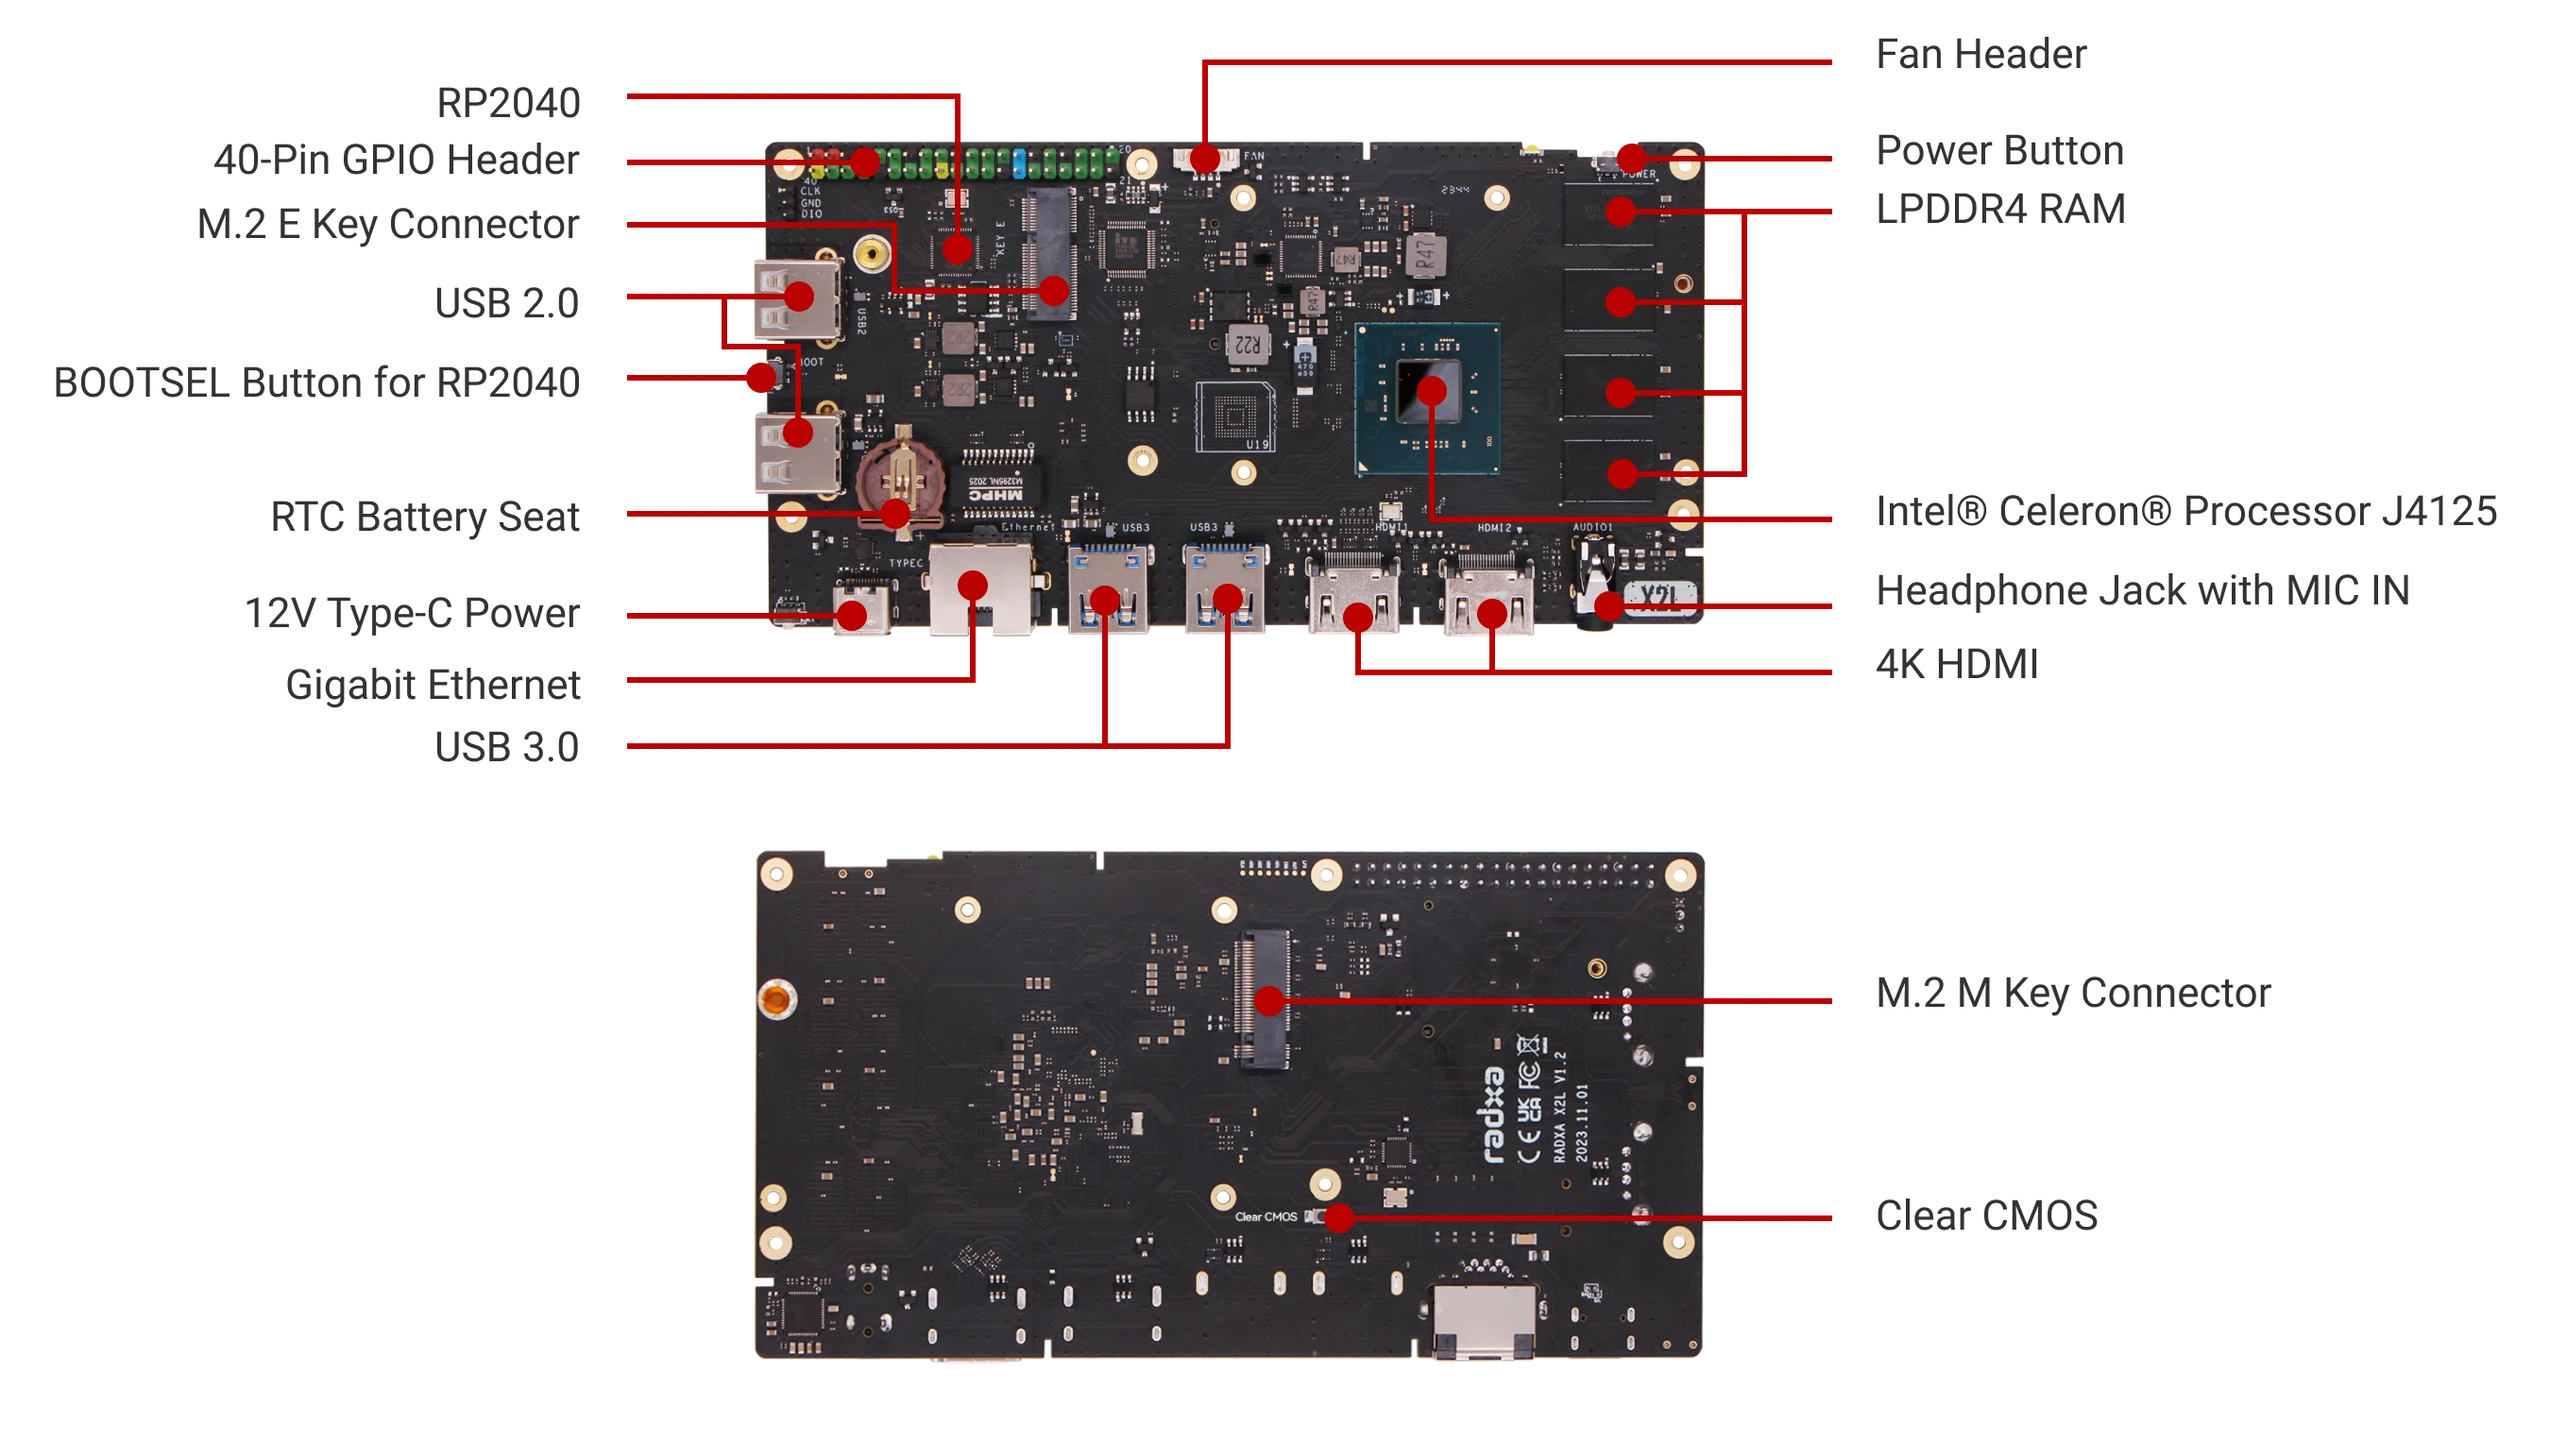
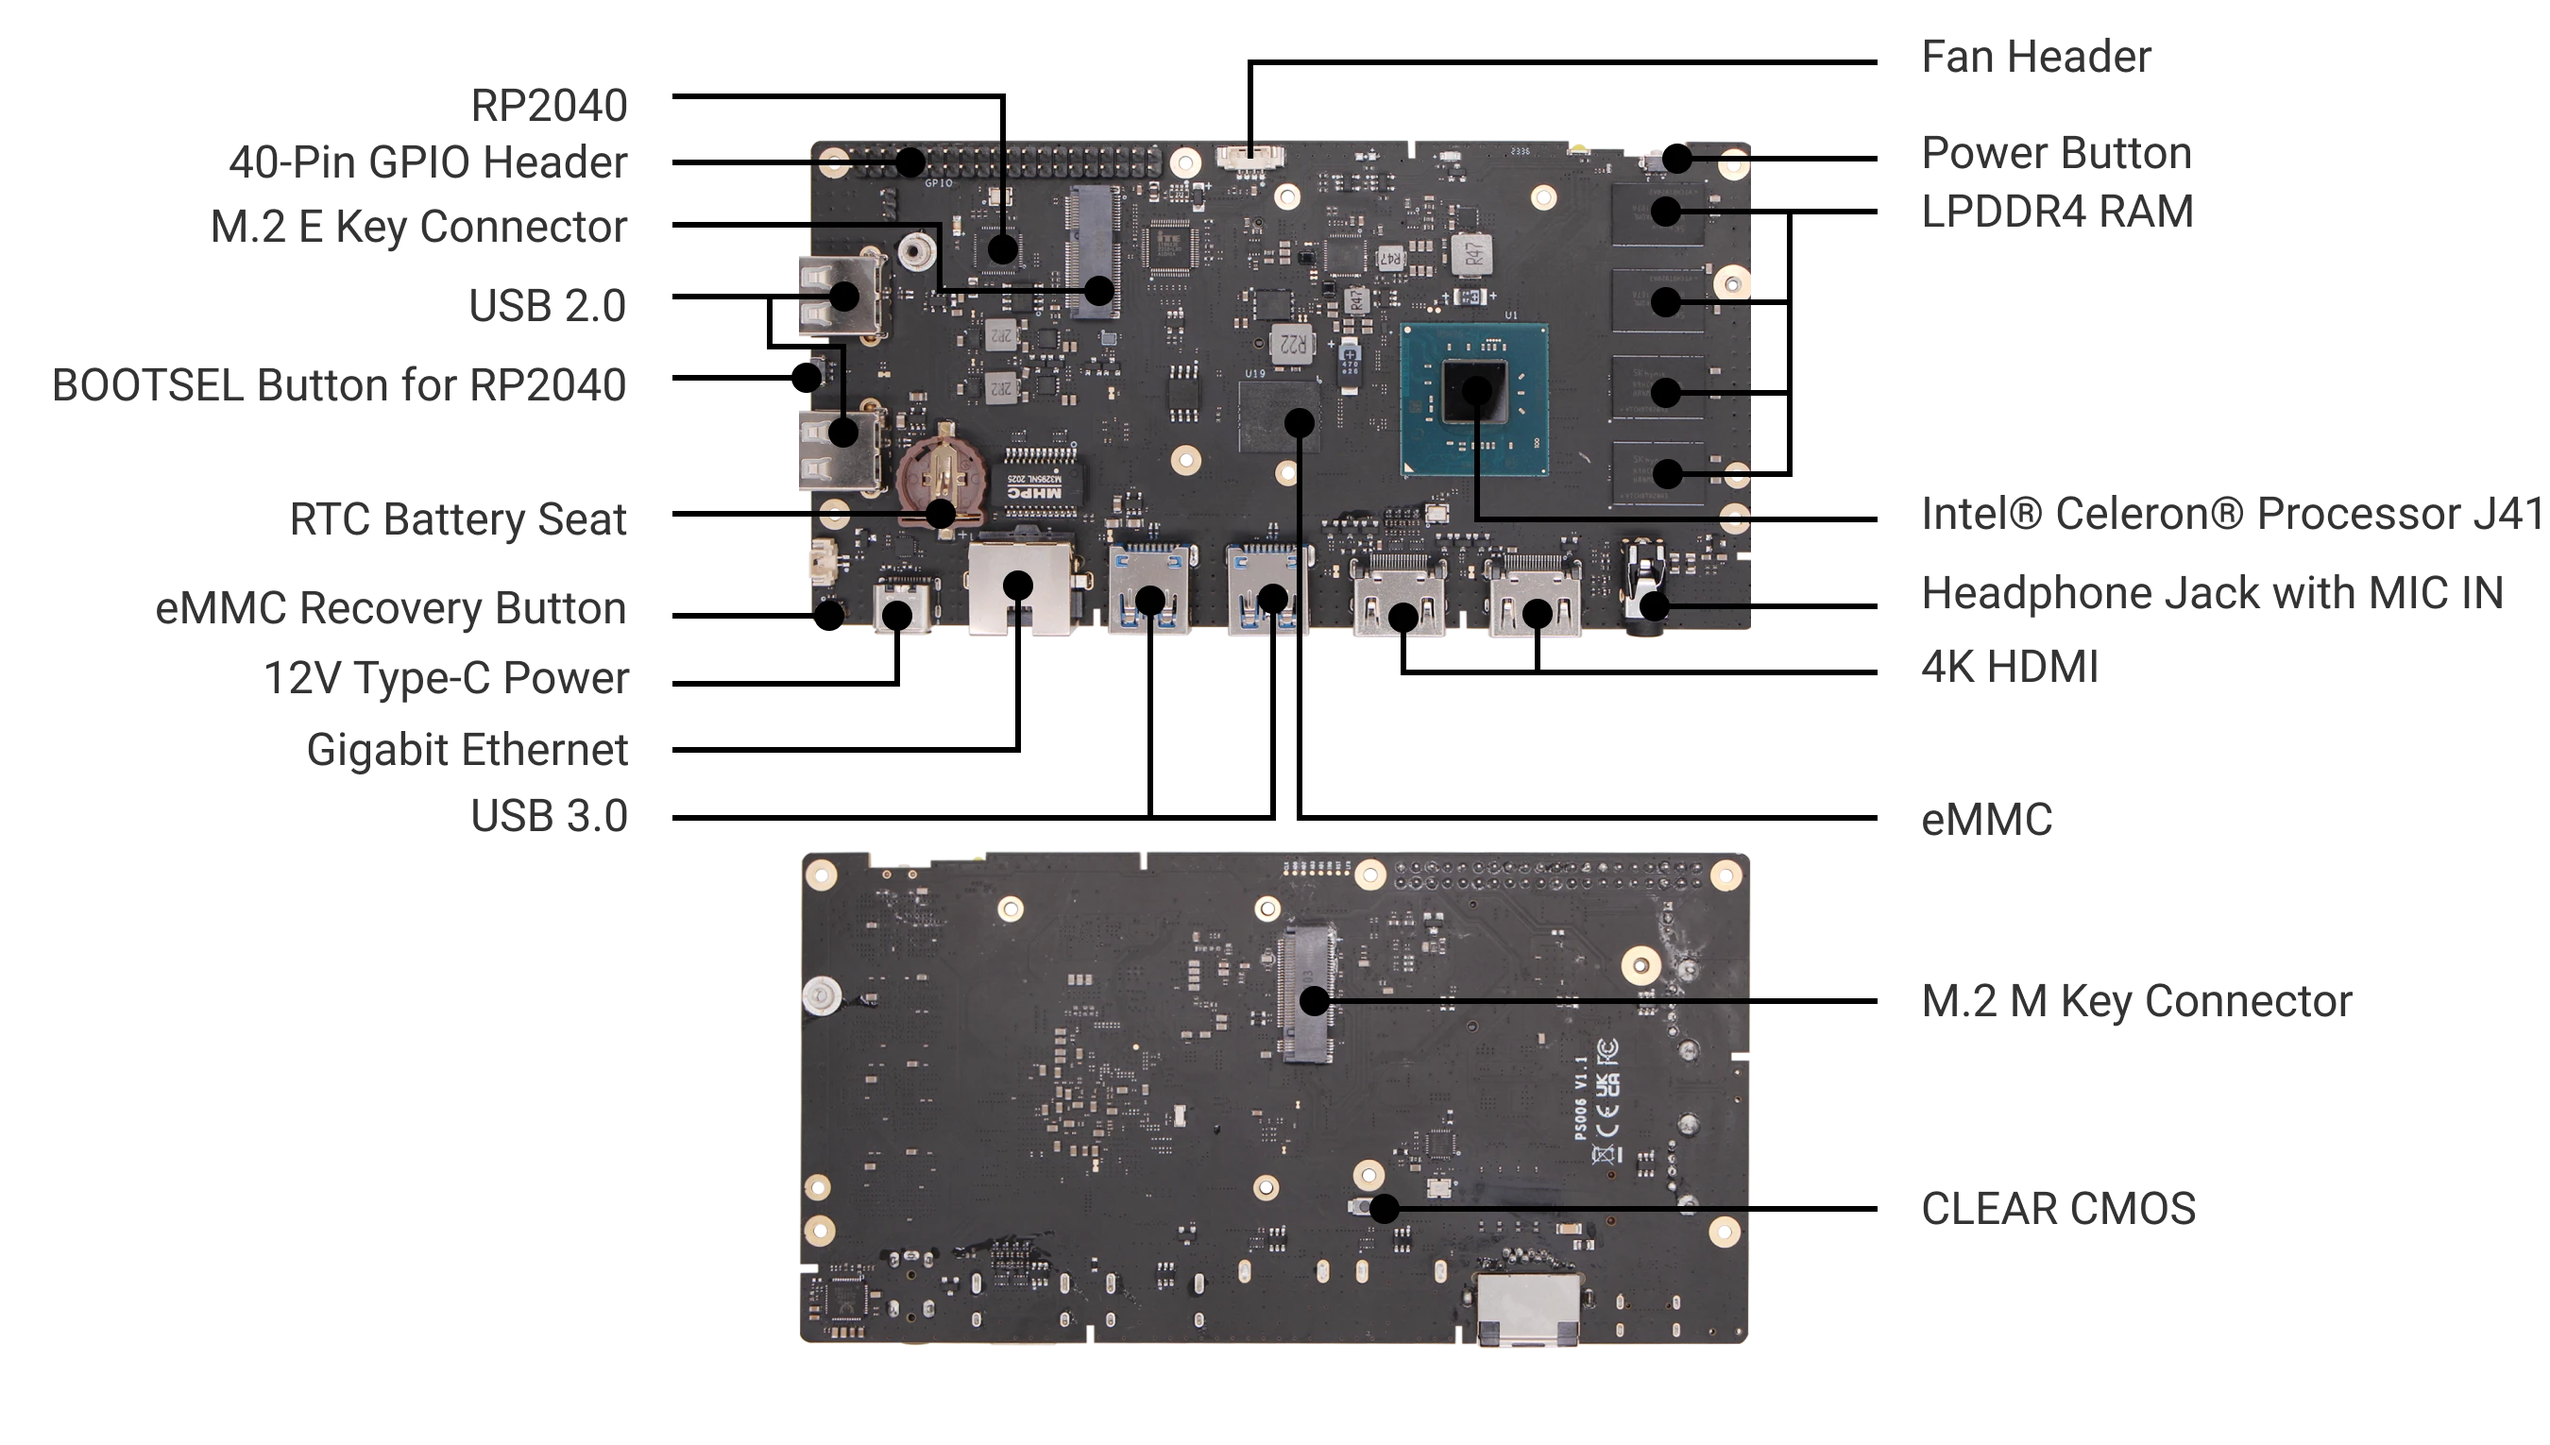
update x2l and roobi

Changed region(s): [[0.0, 0.0307, 0.9956, 0.9523], [0.7467, 0.5529, 0.8089, 0.5837]]

diff --git a/i18n/en/docusaurus-plugin-content-docs/current/x/roobi/recover-roobi.md b/i18n/en/docusaurus-plugin-content-docs/current/x/roobi/recover-roobi.md
@@ -2,25 +2,7 @@
 sidebar_position: 20
 ---
 
-# Roobi
-
-Roobi OS
-
-## What is Roobi
-
-- Roobi is software that allows you to install computer operating systems with minimal configuration required.
-
-- The Roobi system is designed to make computer management and recovery more convenient for users.
-
-- Roobi operates independently of your normal usage environment.
-
-- Roobi allows for the installation of user-created systems.
-
-## How to Flash Roobi OS
-
-Prerequisites: PalmShell device or single board with eMMC
-
-### Using Roobi Flasher
+# Recover Roobi
 
 Roobi Flasher is a flashing tool used to restore the Roobi system. If your Roobi system fails to boot due to uncontrollable reasons, you can follow this tutorial to restore your Roobi system to its factory state.
 
@@ -30,7 +12,7 @@ Roobi Flasher is a flashing tool used to restore the Roobi system. If your Roobi
 
 3. Use balenaEtcher to write the image to the USB flash drive. (**Please note that this operation will erase the data on your USB flash drive**)
 
-4. Activate eMMC: Before powering on the device, press and hold the recovery button (located on the side or front of the device) with a sharp object, and simultaneously press the power button (press and release immediately) to power on. Release the recovery button when the display lights up.
+4. Activate eMMC: To begin, locate the eMMC Recovery button (may be located on the side or front of the device, please refer to the product labeling diagram for specific product information). Before powering on, press and hold the eMMC Recovery button, and simultaneously press the power button (press and release immediately) to turn on the device. Release the eMMC Recovery button once the display lights up.
 
 5. After the display appears, immediately press F7 to enter the boot selection interface.
 

diff --git a/i18n/en/docusaurus-plugin-content-docs/current/x/x2l/README.md b/i18n/en/docusaurus-plugin-content-docs/current/x/x2l/README.md
@@ -1,7 +1,7 @@
 ---
 title: "Radxa X2L"
 description: "Radxa X2L"
-sidebar_position: 10
+sidebar_position: 20
 slug: /x/x2l
 ---
 
@@ -22,7 +22,7 @@ The Radxa X2L is a new X86 SBC launched by Radxa, featuring the Intel J4125 proc
 |    SoC     | **Intel® Celeron® Processor J4125**                                                                                                                         |
 |    GPU     | **Intel® UHD Graphics 600**                                                                                                                                  |
 |    RAM     | LPDDR4 (2GB / 4GB / 8GB)                                                                                                                                      |
-|  Storage   | M.2 M Key Connector for M.2 M Key 2280 NVMe (Does not support SATA protocol.)                                                                                 |
+|  Storage   | M.2 M Key Connector for M.2 M Key 2280 NVMe (Does not support SATA protocol.) <br/> Optional onboard eMMC                                                     |
 |  Display   | 2x Standard HDMI up to 4K@30fps                                                                                                                               |
 |   Audio    | Headphone Jack with MIC IN                                                                                                                                    |
 |  Wireless  | M.2 E Key Connector for Wi-Fi / BT, supports AX210 and [Radxa Wireless Module A8](/accessories/wireless-a8)                                                   |

diff --git a/docs/x/x2l/README.md b/docs/x/x2l/README.md
@@ -1,7 +1,7 @@
 ---
 title: "Radxa X2L"
 description: "Radxa X2L"
-sidebar_position: 10
+sidebar_position: 20
 slug: /x/x2l
 ---
 
@@ -22,7 +22,7 @@ Radxa X2L 是瑞莎全新推出的 基于 Intel J4125 的 X86 单板机。
 |  SoC   | **Intel® Celeron® Processor J4125**                                                                                                         |
 |  GPU   | **Intel® UHD Graphics 600**                                                                                                                  |
 |  内存  | LPDDR4 RAM（2GB / 4GB / 8GB）                                                                                                                 |
-|  存储  | M.2 M Key 接口，支持 2280 NVMe SSD（不支持SATA协议）                                                                                          |
+|  存储  | M.2 M Key 接口，支持 2280 NVMe SSD（不支持 SATA 协议）<br/> 可选板载 eMMC                                                                     |
 |  显示  | 提供 2 个最高支持 4K@30 的标准 HDMI 接口                                                                                                      |
 |  声音  | 带麦克风功能的 3.5 毫米耳机插孔                                                                                                               |
 |  无线  | M.2 E Key 接口，用来支持无线功能。支持 AX210 和 [Radxa Wireless Module A8](/accessories/wireless-a8)                                          |

diff --git a/docs/x/roobi/recover-roobi.md b/docs/x/roobi/recover-roobi.md
@@ -1,0 +1,21 @@
+---
+sidebar_position: 20
+---
+
+# 恢复 Roobi
+
+Roobi Flasher 是用于恢复 Roobi 系统的一个刷入工具，如果您因为不可控原因，使 Roobi 系统无法启动，可通过该教程，将您的 Roobi 系统恢复到出厂时的状态。
+
+1. 获取刷入镜像：[点击这里](https://github.com/palmshell/RoobiOS/releases/download/ps006_flasher_v1.1.0/ps006_flasher.img.xz)
+
+2. 插入 U 盘。
+
+3. 使用 balenaEtcher 将镜像写入U盘 。（**请注意，这个操作会清空您U盘中的数据**）
+
+4. 激活 eMMC：首先需要找到 eMMC Recovery 按钮。（可能位于机身的侧面或正面，请查看指定产品的产品标注图）在开机之前，按住 eMMC Recovery 按钮并保持，于此同时点按电源键（按下并立刻松开）进行开机，直到显示器亮起后即可松开 eMMC Recovery 按钮。
+
+5. 在显示画面后，立刻点击 F7 进入引导选择界面
+
+6. 选择您的 U 盘设备，按 [Enter] 选择相应条目（通常带有**USB**字样）
+
+7. 此时，系统将会自动将 Roobi 刷入到 eMMC 中。

diff --git a/i18n/en/docusaurus-plugin-content-docs/current/x/x2l/getting-started.md b/i18n/en/docusaurus-plugin-content-docs/current/x/x2l/getting-started.md
@@ -10,6 +10,14 @@ The Radxa X series is a newly launched single-board computer series by Radxa, ba
 The Radxa X2L doesn't come with a CMOS battery. For the first time power on, the BIOS initializes hardware setting, the red light is on. This will last about 1 minute then X2L will reboot, and the white light is on, and the BIOS boots normally. Without CMOS battery(Type: CR1220), the above will repeat.
 :::
 
+## Activate Onboard eMMC
+
+** Skip if No Onboard eMMC **
+
+- By default, the eMMC is not recognized. It needs to be activated using the eMMC Recovery Button.
+- Before powering on, press and hold the eMMC Recovery Button, then insert the power plug to start the device. Release the eMMC Recovery Button once the display lights up.
+- At this point, the power indicator will be red, indicating that the system can now recognize and access the eMMC module.
+
 ## Install OS
 
 ### Before Start

diff --git a/docs/x/x2l/getting-started.md b/docs/x/x2l/getting-started.md
@@ -10,6 +10,14 @@ Radxa X 系列是瑞莎全新推出的基于 X86 平台的单板机系列。
 Radxa X2L 没有配备 CMOS 电池。首次开机时，BIOS 会初始化硬件设置，红灯亮起。这将持续约 1 分钟，然后 X2L 重新启动，白灯亮起，BIOS 正常启动。如果没有 CMOS 电池（规格 CR1220），上述情况将重复出现。
 :::
 
+## 激活板载 eMMC
+
+** 无板载 eMMC 可跳过 **
+
+- 默认状态下 eMMC 不可识别。需要通过 eMMC Recovery Button 激活 eMMC。
+- 在开机之前，按住 eMMC Recovery 按钮并保持，然后插入电源开机，直到显示器亮起后即可松开 eMMC Recovery 按钮。
+- 此时电源灯为红色，系统下可以识别并能够读写 eMMC 模块
+
 ## 安装 OS
 
 ### 开始前准备

diff --git a/i18n/en/docusaurus-plugin-content-docs/current/x/roobi/README.md b/i18n/en/docusaurus-plugin-content-docs/current/x/roobi/README.md
@@ -1,0 +1,26 @@
+---
+title: "Roobi Software"
+description: "This tutorial guides the user through the Roobi OS related software features of the Radxa X series."
+sidebar_position: 10
+slug: /x/roobi
+---
+
+# Roobi
+
+Roobi OS
+
+## What is Roobi
+
+- Roobi is software that allows you to install computer operating systems with minimal configuration required.
+
+- The Roobi system is designed to make computer management and recovery more convenient for users.
+
+- Roobi operates independently of your normal usage environment.
+
+- Roobi allows for the installation of user-created systems.
+
+## Roobi Scope of Use
+
+** Palmshell products or Radxa X-Series SBC with eMMC **
+
+<DocCardList />

diff --git a/docs/x/roobi/README.md b/docs/x/roobi/README.md
@@ -1,0 +1,26 @@
+---
+title: "Roobi 软件"
+description: "此教程引导用户使用 Radxa X 系列的 Roobi OS 相关软件功能"
+sidebar_position: 10
+slug: /x/roobi
+---
+
+# Roobi
+
+Roobi OS
+
+## 什么是 Roobi
+
+- Roobi 是一个能够在几乎不需要配置的情况下，安装计算机操作系统的软件。
+
+- Roobi 系统旨在用户更方便的管理、恢复计算机。
+
+- Roobi 与您的正常使用环境是隔离的。
+
+- Roobi 可以自由安装用户创建的系统。
+
+## Roobi 使用范围
+
+** Palmshell 整机 或 带有 eMMC 的 Radxa X 系列单板机 **
+
+<DocCardList />
